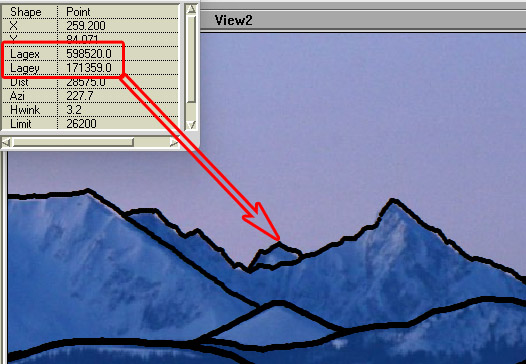
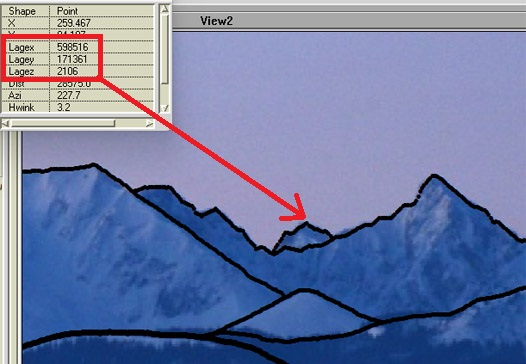
modify skyplot2pano Dokumentation

diff --git a/dok/skyplot2pano.html b/dok/skyplot2pano.html
@@ -27,7 +27,7 @@
 		<div class="box">
 			<h1>skyplot2pano – Dokumentation</h1>
 			<p>Adrian Böhlen<br />
-			Version 1.2 vom 28.03.2024</p>
+			Version 1.3 vom 31.03.2024</p>
 			
 			<h2>Inhalt</h2>
 			<div class="Reihe_zw">
@@ -434,21 +434,22 @@ Entferntester: 640238  154256  4005  243.8  208.300   4060.6  2993
 				<img width="320px" height="185px" alt="Höhe aus Radius und Winkel" onclick="show('./img/h_aus_radius_und_winkel_950x550.jpg');" src="./img/h_aus_radius_und_winkel_950x550.jpg" />
 				<p class="Bildlegende">Abb.&nbsp;4:&nbsp;Bestimmung der Höhe (h) über dem mathematischen Horizont (mH) im Bildkoordinatensystem zwecks Festlegung der Punkte, welche die Konturen der Landschaft wiedergeben.<br />Eigene Zeichnung vom 07.03.2024</p>
 			</div>	
-			<p>Im Gegensatz zu einer «echten» Zylinderprojektion liegt der so genannte Hauptpunkt (Bildkoordinaten 0 / 0) hier nicht in der Bildmitte, sondern am linken Bildrand. Ausgehend von der Information, wie vielen Millimetern ein gon im Bildkoordinatensystem entspricht, wird nun ein Punkt nach dem anderen berechnet, wobei der Horizontalabstand der einzelnen Punkte (Abstand auf der X-Achse des Bildkoordinatensystems) immer genau gleich ist und der in Millimetern umgerechneten azimutalen Auflösung (6. Argument) entspricht. Der vertikale Abstand vom mathematischen Horizont (Y-Koordinate im Bildkoordinatensystem) wird trigonometrisch errechnet, indem der Radius des Projektionszylinders als Ankathete in einem rechtwinkligen Dreieck angenommen und mit dem Tangens des Höhenwinkels multipliziert wird. Abb.&nbsp;4 erläutert die Zusammenhänge. Das ist wie wenn der virtuelle Panoramazeichner&nbsp;–&nbsp;um zum vorherigen Beispiel zurückzukehren&nbsp;–&nbsp;der dahinterliegenden Landschaft entsprechend, in regelmässigem Abstand einen Punkt auf den Zylinder zeichnen würde. Wie im ersten Teil erläutert, lassen sich mittels der verfügbaren Informationen die Lagekoordinaten ermitteln und so erhält jeder Punkt seine reale X- und Y-Koordinate als Zusatzinformation, sodass diese später im Panoramabild abgefragt werden können. Zusammen mit einigen weiteren Angaben präsentiert sich die resultierende sil-Datei am Schluss wie folgt:</p>
+			<p>Im Gegensatz zu einer «echten» Zylinderprojektion liegt der so genannte Hauptpunkt (Bildkoordinaten 0 / 0) hier nicht in der Bildmitte, sondern am linken Bildrand. Ausgehend von der Information, wie vielen Millimetern ein gon im Bildkoordinatensystem entspricht, wird nun ein Punkt nach dem anderen berechnet, wobei der Horizontalabstand der einzelnen Punkte (Abstand auf der X-Achse des Bildkoordinatensystems) immer genau gleich ist und der in Millimetern umgerechneten azimutalen Auflösung (6. Argument) entspricht. Der vertikale Abstand vom mathematischen Horizont (Y-Koordinate im Bildkoordinatensystem) wird trigonometrisch errechnet, indem der Radius des Projektionszylinders als Ankathete in einem rechtwinkligen Dreieck angenommen und mit dem Tangens des Höhenwinkels multipliziert wird. Abb.&nbsp;4 erläutert die Zusammenhänge. Das ist wie wenn der virtuelle Panoramazeichner&nbsp;–&nbsp;um zum vorherigen Beispiel zurückzukehren&nbsp;–&nbsp;der dahinterliegenden Landschaft entsprechend, in regelmässigem Abstand einen Punkt auf den Zylinder zeichnen würde. Wie im ersten Teil erläutert, lassen sich mittels der verfügbaren Informationen die Lage- und Höhenkoordinaten ermitteln und so erhält jeder Punkt seine reale X-, Y- und Z-Koordinate als Zusatzinformation, sodass diese später im Panoramabild abgefragt werden können. Zusammen mit einigen weiteren Angaben präsentiert sich die resultierende sil-Datei am Schluss wie folgt:</p>
 			<code>
-      X,       Y,     LageX,     LageY,     Dist,   Azi, HWink,  Limit, DiRel
-  0.000,  58.123,  603397.0,  172588.0,  25700.0, 218.0,   3.2,  25000,     6
-  1.818,  58.287,  603344.0,  172551.0,  25750.0, 218.1,   3.2,  25000,     6
-  3.636,  58.564,  603299.0,  172539.0,  25775.0, 218.2,   3.2,  25000,     6
-  5.455,  59.115,  603253.0,  172527.0,  25800.0, 218.3,   3.2,  25000,     6
-  7.273,  59.844,  603214.0,  172539.0,  25800.0, 218.4,   3.3,  25000,     6
-  9.091,  61.354,  603190.0,  172600.0,  25750.0, 218.5,   3.4,  25000,     6
- 10.909,  62.493,  603159.0,  172637.0,  25725.0, 218.6,   3.4,  25000,     6
- 12.727,  62.231,  603121.0,  172648.0,  25725.0, 218.7,   3.4,  25000,     6
- 14.545,  62.679,  603082.0,  172661.0,  25725.0, 218.8,   3.4,  25000,     6
- 16.364,  62.163,  603043.0,  172672.0,  25725.0, 218.9,   3.4,  25000,     6
+      X,       Y,   LageX,   LageY,  LageZ,     Dist,   Azi, HWink,  Limit, DiRel
+  0.000,  10.804,  615484,  166133,   2172,  31525.0, 190.0,   3.0,  35000,     3
+  3.636,   9.961,  615165,  164867,   2114,  32725.0, 191.0,   2.7,  35000,     3
+  7.273,  11.517,  614667,  164710,   2339,  32825.0, 192.0,   3.2,  35000,     3
+ 10.909,  11.184,  614175,  164473,   2301,  33000.0, 193.0,   3.1,  35000,     3
+ 14.545,  11.386,  613723,  163751,   2366,  33675.0, 194.0,   3.1,  35000,     3
+ 18.182,  10.631,  613258,  162928,   2296,  34450.0, 195.0,   2.9,  35000,     3
+ 25.455,   7.728,  612188,  162669,   1872,  34625.0, 197.0,   2.1,  35000,     3
+ 29.091,   7.602,  611375,  171238,   1535,  26025.0, 198.0,   2.1,  35000,     3
+ 32.727,   7.957,  610970,  170980,   1584,  26275.0, 199.0,   2.2,  35000,     3
+ 36.364,   9.407,  610558,  170933,   1751,  26325.0, 200.0,   2.6,  35000,     3
+ 40.000,  10.577,  610145,  170967,   1882,  26300.0, 201.0,   2.9,  35000,     3
 			</code>
-			<p class="Bildlegende">Tab.&nbsp;4:&nbsp;Output von skyplot2pano (Auszug). Kommagetrennte Textdatei für die Darstellung von aus Punkten gebildeter Silhouetten.</p>
+			<p class="Bildlegende">Tab.&nbsp;4:&nbsp;Output von skyplot2pano (Auszug). Kommagetrennte Textdatei für die Darstellung von aus Punkten gebildeten Silhouetten.</p>
 			
 			<a name="sil"></a>
 			<h3>1.4.4&nbsp;&nbsp;Realisierung von sichtbegrenzenden Kreten (Silhouetten)</h3>
@@ -528,18 +529,18 @@ mv sil_* $dir
 			
 			<a name="pte_best"></a>
 			<h3>2.5.3&nbsp;&nbsp;Lage der Punkte bestimmen</h3>
-			<p>Wie bereits erwähnt, werden zu jedem Punkt die zugehörigen Lagekoordinaten berechnet. Mit einem entsprechenden Werkzeug (<em>Identify</em> o.ä.) lassen sie sich dann problemlos abfragen und z.B. mittels eines Geoportals verorten. Die Abbildungen 8 und 9 zeigen ein Beispiel unter Verwendung von <a target="_blank" href="https://map.geo.admin.ch">https://map.geo.admin.ch</a>. Dort lassen sich Koordinatenpaare einfach ins Suchfeld eintippen, worauf die Ansicht zur entsprechenden Stelle springt. In diesem Beispiel handelt es sich bei dem hinter dem Gemsgrat aufragenden Gipfel mit den LV03-Koordinaten 598520 / 171359 demnach um den 2115&nbsp;m hohen Hane.</p>
+			<p>Wie bereits erwähnt, werden zu jedem Punkt die zugehörigen Lagekoordinaten berechnet. Mit einem entsprechenden Werkzeug (<em>Identify</em> o.ä.) lassen sie sich dann problemlos abfragen und z.B. mittels eines Geoportals verorten. Die Abbildungen 8 und 9 zeigen ein Beispiel unter Verwendung von <a target="_blank" href="https://map.geo.admin.ch">https://map.geo.admin.ch</a>. Dort lassen sich Koordinatenpaare einfach ins Suchfeld eintippen, worauf die Ansicht zur entsprechenden Stelle springt. In diesem Beispiel handelt es sich bei dem hinter dem Gemsgrat aufragenden Gipfel mit den LV03-Koordinaten 598516 / 171361 demnach um den Nordgipfel des 2115&nbsp;m hohen Hane, der gemäss Höhenmodell 2106&nbsp;m hoch ist.</p>
 			
 			<div class="Reihe">
 				<div class="Zelle_norm">
 					<img width="320px" height="221px" alt="Abfrage Punkt" onclick="show('./img/abfrage_punkt_526x364.jpg');" src="./img/abfrage_punkt_320x221.jpg" />
-					<p class="Bildlegende">Abb.&nbsp;8:&nbsp;Abfragen eines Punktes mit Anzeige der Lagekoordinaten.<br />Eigener Screenshot aus ArcView vom 09.03.2024</p>
+					<p class="Bildlegende">Abb.&nbsp;8:&nbsp;Abfragen eines Punktes mit Anzeige der Lage- und Höhenkoordinaten.<br />Eigener Screenshot aus ArcView vom 31.03.2024</p>
 				</div>
 				<div class="Zelle_zw">
 				</div>
 				<div class="Zelle_norm">
 					<img width="320px" height="221px" alt="Lage bestimmen" onclick="show('./img/punktbestimmung_geoadmin_526x364.jpg');" src="./img/punktbestimmung_geoadmin_320x221.jpg" />
-					<p class="Bildlegende">Abb.&nbsp;9:&nbsp;Lokalisierung dieses Punktes anhand der Lagekoordinaten im Geoportal map.geo.admin.ch<br />Eigener Screenshot aus Firefox vom 09.03.2024</p>
+					<p class="Bildlegende">Abb.&nbsp;9:&nbsp;Lokalisierung dieses Punktes anhand der Lagekoordinaten im Geoportal map.geo.admin.ch<br />Eigener Screenshot aus Firefox vom 31.03.2024</p>
 				</div>
 			</div>			
 			
@@ -556,7 +557,12 @@ mv sil_* $dir
 			<p>Wie im Abschnitt 1.4.4 erläutert, wird durch die kontinuierliche Erweiterung des Höhenmodell-Perimeters vom Projektionszentrum aus eine mehr oder weniger umfassende Darstellung des sichtbaren Geländes erzielt. Manchmal ist jedoch lediglich die Wiedergabe des natürlichen Horizonts erwünscht; als gleichmässige, durchgehende Profillinie, unabhängig davon wie weit der jeweilige horizontbildende Punkt entfernt ist. Dies entspricht der eigentlichen Funktionalität von SCOP.SKYPLOT, aber eine solche Darstellung lässt sich durchaus auch mit skyplot2pano erzielen. Dazu muss man einfach das Programm dazu zwingen, nur eine einzige Berechnung durchzuführen. Für die minimale Distanz (10. Argument) und die maximale Distanz (11. Argument) kann beispielsweise fast der identische Wert verwendet werden, und zwar einer, der weiter entfernt ist als der entfernteste vom Projektionszentrum im gewünschten Sektor aus sichtbare Punkt. Zudem ist für das Intervall, mit dem der Perimeter erweitert wird (12. Argument), ein höherer Wert zu wählen, als die Differenz zwischen minimaler und maximaler Distanz. In folgendem Beispiel wurde als minimale Distanz 100, als maximale 101 und als Intervall 50 km verwendet:</p>
 			<p class="Nichtproportional">skyplot2pano.awk 600377 196254 860 Gurten dhm25 0.01 190 210 200 100 101 50</p>
 
-			<p>Um aus dem Ergebnis eine «echte» Linie zu erzielen, müssen die Punkte nach (oder je nach System bereits während) dem Import ins GIS in eine Punktdatei umgewandelt werden (Shape-, Geodatabase- oder Geopackage Format). Da die interne Reihenfolge der Punkte von links nach rechts verläuft, lassen sie sich anschliessend mit einem passenden Werkzeug mühelos in eine Linie umwandeln.</p>
+			<div class="Bild_l">
+				<img width="320px" height="46px" alt="Profillinie" onclick="show('./img/profillinie_640x93.jpg');" src="./img/profillinie_640x93.jpg" />
+				<p class="Bildlegende">Abb.&nbsp;11:&nbsp;Profillinie<br />Eigener Export aus ArcView vom 31.03.2024</p>
+			</div>
+
+			<p>Um aus dem Ergebnis eine «echte» Linie zu erzielen, müssen die Punkte nach (oder je nach System bereits während) dem Import ins GIS in eine Punktdatei umgewandelt werden (Shape-, Geodatabase- oder Geopackage Format). Da die interne Reihenfolge der Punkte von links nach rechts verläuft, lassen sie sich anschliessend mit einem passenden Werkzeug mühelos in eine Linie umwandeln. Abb.&nbsp;11 zeigt das aus obiger Parametrisierung erzielte Ergebnis.</p>
 			<p>Anwendungsfälle, für solche stark abstrahierten Abbildungen der Berge gibt es genügend, beispielsweise die vom Autor in Zusammenarbeit mit der Südostbahn realisierte Beschriftung der S-Bahn Züge, für die damals aber SCOP.PER verwendet wurde. <script type="text/javascript">var name="am"; var kap=""; verweis("dokSky");</script></p>
 			
 			<a name="qu"></a>
